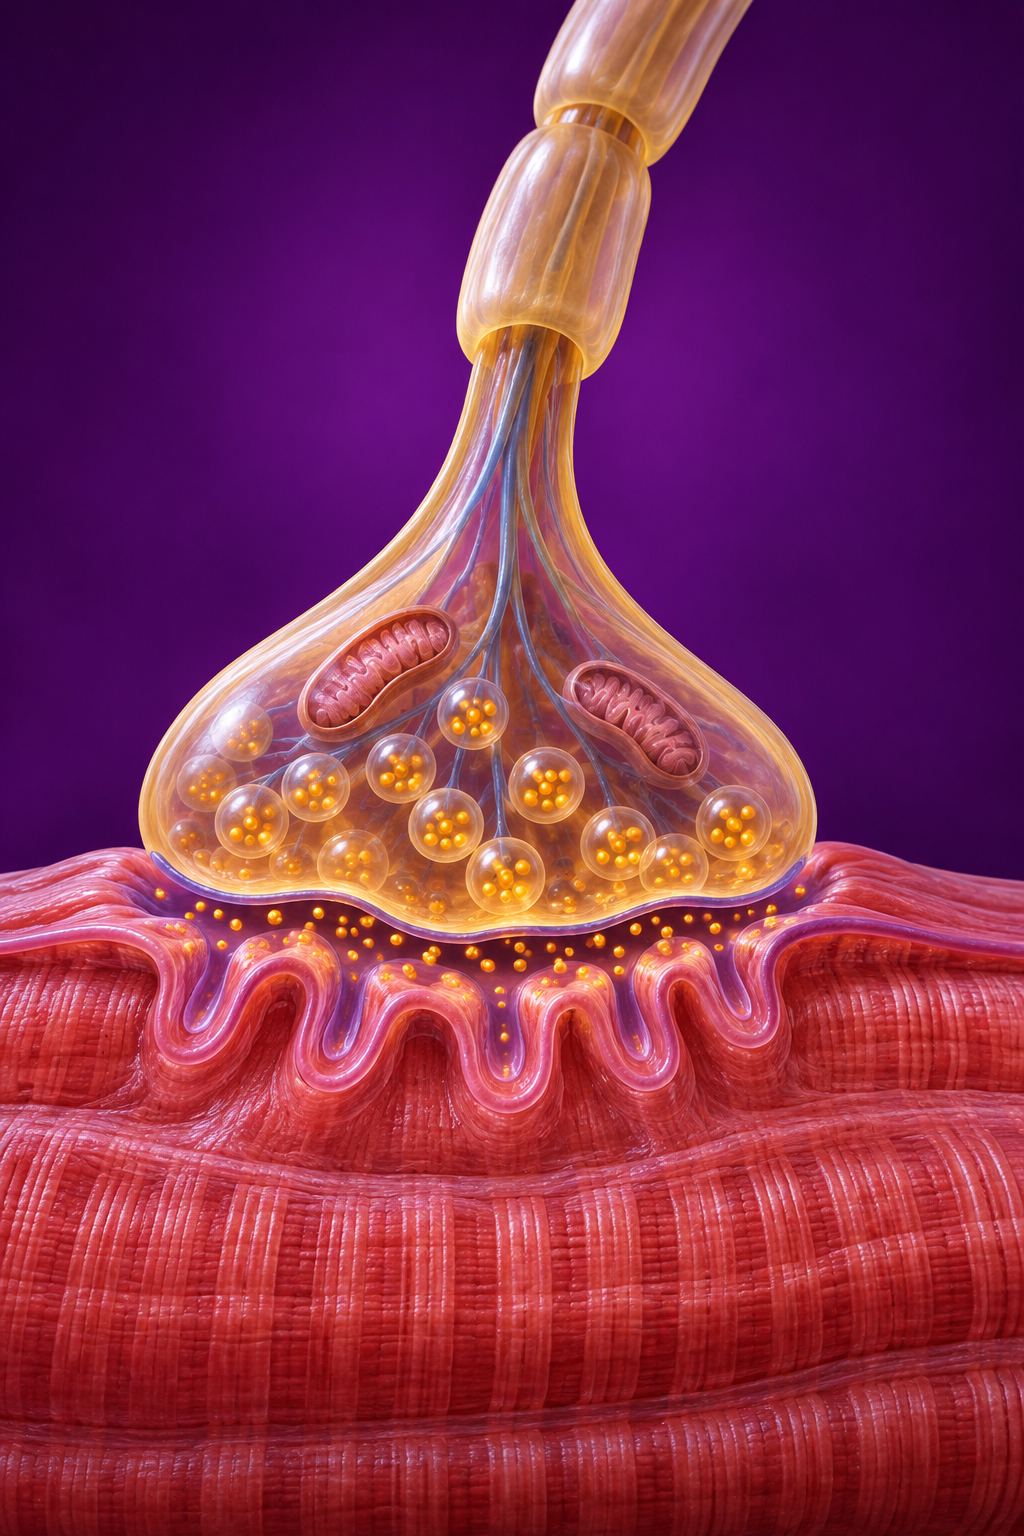
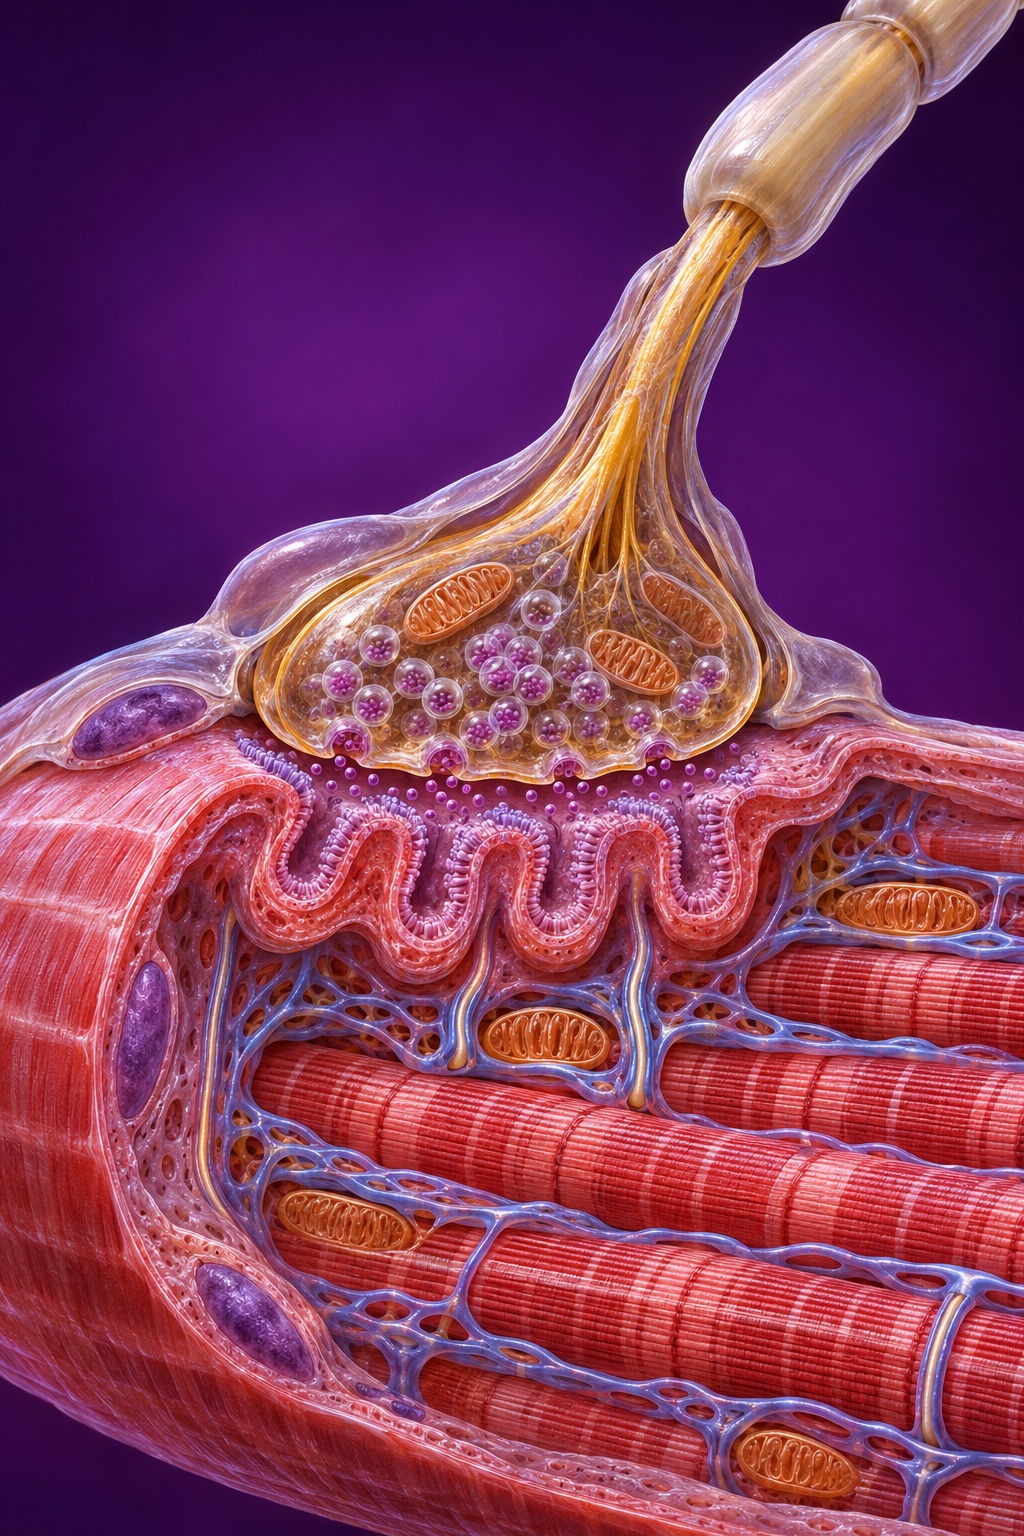
fix(atlas): refresh tendon and muscle contraction illustrations

diff --git a/app/atlas-premium/muscular-data.ts b/app/atlas-premium/muscular-data.ts
@@ -906,20 +906,20 @@ export const muscularLabs:Record<string,Lab>={
           {
             "name": "Tendão calcâneo",
             "description": "Transmite força do tríceps sural ao calcâneo.",
-            "x": 50,
-            "y": 67
+            "x": 35,
+            "y": 69
           },
           {
-            "name": "Sóleo",
-            "description": "Integra o tríceps sural, contribuindo para a flexão plantar sem cruzar o joelho.",
-            "x": 39,
-            "y": 45
+            "name": "Gastrocnêmio",
+            "description": "Músculo superficial da panturrilha, integrante do tríceps sural, que auxilia a flexão plantar e a flexão do joelho. O sóleo situa-se mais profundamente.",
+            "x": 45,
+            "y": 30
           },
           {
             "name": "Calcâneo",
             "description": "Osso do retropé que recebe a inserção do tendão calcâneo.",
-            "x": 50,
-            "y": 91
+            "x": 35,
+            "y": 93
           }
         ]
       },
@@ -933,19 +933,19 @@ export const muscularLabs:Record<string,Lab>={
             "name": "Tendão do quadríceps",
             "description": "Conecta o quadríceps à patela, transmitindo sua força.",
             "x": 49,
-            "y": 33
+            "y": 29
           },
           {
             "name": "Ligamento patelar",
             "description": "Une patela à tuberosidade da tíbia e transmite força do mecanismo extensor.",
-            "x": 49,
-            "y": 73
+            "x": 50,
+            "y": 64
           },
           {
             "name": "Retináculos patelares",
             "description": "Expansões fibrosas que contribuem para estabilidade e acompanhamento patelar.",
-            "x": 31,
-            "y": 48
+            "x": 32,
+            "y": 43
           }
         ]
       },
@@ -958,20 +958,20 @@ export const muscularLabs:Record<string,Lab>={
           {
             "name": "Trato iliotibial",
             "description": "Espessamento lateral da fáscia lata, recebe fibras do tensor da fáscia lata e glúteo máximo.",
-            "x": 49,
-            "y": 53
+            "x": 53,
+            "y": 50
           },
           {
             "name": "Fáscia lata",
             "description": "Envolve a musculatura da coxa e contribui para a delimitação dos compartimentos.",
-            "x": 35,
-            "y": 27
+            "x": 37,
+            "y": 39
           },
           {
             "name": "Glúteo máximo",
             "description": "Músculo extensor do quadril cujas fibras superficiais contribuem para tensionar o trato iliotibial. Os septos intermusculares não estão individualizados nesta ilustração.",
-            "x": 26,
-            "y": 22
+            "x": 29,
+            "y": 19
           }
         ]
       },
@@ -985,19 +985,19 @@ export const muscularLabs:Record<string,Lab>={
             "name": "Aponeurose plantar",
             "description": "Banda fibrosa que auxilia manutenção do arco longitudinal; tensiona-se na extensão dos dedos.",
             "x": 48,
-            "y": 62
+            "y": 61
           },
           {
             "name": "Tuberosidade do calcâneo",
             "description": "Região proximal de fixação da aponeurose plantar.",
             "x": 49,
-            "y": 91
+            "y": 92
           },
           {
             "name": "Bandas digitais",
             "description": "Prolongamentos distais da aponeurose que se relacionam com os dedos.",
-            "x": 48,
-            "y": 25
+            "x": 51,
+            "y": 27
           }
         ]
       }
@@ -1084,60 +1084,60 @@ export const muscularLabs:Record<string,Lab>={
           {
             "name": "Miofibrila",
             "description": "Estrutura intracelular constituída por sarcômeros em série.",
-            "x": 50,
-            "y": 44
+            "x": 49,
+            "y": 40
           },
           {
             "name": "Sarcolema",
             "description": "Membrana plasmática da fibra muscular, conduz a despolarização.",
-            "x": 32,
-            "y": 57
+            "x": 27,
+            "y": 55
           },
           {
             "name": "Retículo sarcoplasmático",
             "description": "Armazena cálcio e o libera em resposta à ativação elétrica.",
-            "x": 57,
-            "y": 61
+            "x": 51,
+            "y": 55
           }
         ]
       },
       {
         "file": "sarcomero.webp",
         "label": "Sarcômero em repouso",
-        "description": "Representação molecular esquemática do sarcômero em repouso: filamentos finos dourados, grossos vermelhos e discos Z violetas. Não está em escala.",
+        "description": "Representação molecular esquemática do sarcômero em repouso: filamentos finos vermelhos, filamentos grossos violetas e discos Z violetas. Não está em escala.",
         "ready": true,
         "points": [
           {
             "name": "Linha Z",
             "description": "Delimita o sarcômero e ancora filamentos finos.",
-            "x": 6,
-            "y": 49
+            "x": 5,
+            "y": 48
           },
           {
             "name": "Filamento fino",
             "description": "Composto principalmente por actina, tropomiosina e troponina.",
-            "x": 24,
-            "y": 38
+            "x": 23,
+            "y": 35
           },
           {
             "name": "Filamento grosso",
             "description": "Composto principalmente por miosina II, que forma pontes cruzadas.",
-            "x": 48,
-            "y": 46
+            "x": 50,
+            "y": 49
           }
         ]
       },
       {
         "file": "encurtamento.webp",
         "label": "Sarcômero contraído",
-        "description": "Representação esquemática do sarcômero encurtado: filamentos finos vermelhos e grossos violetas. As cores são ilustrativas e diferem da cena de repouso; não compare comprimentos pela escala das imagens.",
+        "description": "Representação esquemática da interação dos filamentos durante a contração: filamentos finos dourados, grossos avermelhados e discos Z violetas. As cores e escalas diferem da cena em repouso; as imagens não permitem comparar diretamente os comprimentos ou medir o encurtamento.",
         "ready": true,
         "points": [
           {
             "name": "Disco Z",
             "description": "Limite do sarcômero. Durante o encurtamento, os discos Z se aproximam devido ao deslizamento dos filamentos.",
-            "x": 10,
-            "y": 50
+            "x": 8,
+            "y": 49
           },
           {
             "name": "Filamentos finos",
@@ -1149,7 +1149,7 @@ export const muscularLabs:Record<string,Lab>={
             "name": "Filamentos grossos",
             "description": "Filamentos de miosina formam pontes cruzadas com a actina; a banda A corresponde ao comprimento dos filamentos grossos e permanece aproximadamente constante.",
             "x": 50,
-            "y": 49
+            "y": 50
           }
         ]
       },
@@ -1163,19 +1163,19 @@ export const muscularLabs:Record<string,Lab>={
             "name": "Placa motora",
             "description": "Região pós-sináptica especializada com receptores nicotínicos de acetilcolina.",
             "x": 49,
-            "y": 69
+            "y": 59
           },
           {
             "name": "Terminal axonal",
             "description": "Libera acetilcolina na fenda sináptica após entrada de cálcio.",
-            "x": 43,
-            "y": 49
+            "x": 51,
+            "y": 44
           },
           {
             "name": "Fenda sináptica",
             "description": "Espaço entre neurônio e fibra muscular, onde a acetilcolinesterase degrada acetilcolina.",
-            "x": 49,
-            "y": 62
+            "x": 48,
+            "y": 52
           }
         ]
       }

diff --git a/public/atlas-premium/muscular/contracao/README.md b/public/atlas-premium/muscular/contracao/README.md
@@ -1,9 +1,9 @@
 # Contração muscular
 
-4 imagens integradas, 12 marcadores aproximados e 6 questões comentadas. Revisão anatômica especializada e validação visual pendentes.
-As cenas moleculares são esquemáticas, não estão em escala e usam cores diferentes entre repouso e contração.
+Quatro novas imagens integradas, 12 marcadores aproximados recalibrados, seis questões preservadas. Versões anteriores em versao-anterior/. Revisão anatômica especializada e validação visual pendentes.
+As representações do sarcômero usam cores e escalas diferentes, não permitindo comparação direta de comprimentos.
 
-- fibra.webp
-- sarcomero.webp
-- encurtamento.webp
-- juncao.webp
+- fibra.webp — Fibra muscular
+- sarcomero.webp — Sarcômero em repouso
+- encurtamento.webp — Sarcômero contraído
+- juncao.webp — Junção neuromuscular

diff --git a/public/atlas-premium/muscular/tendoes-fascias/README.md b/public/atlas-premium/muscular/tendoes-fascias/README.md
@@ -1,8 +1,8 @@
 # Tendões e fáscias
 
-4 imagens integradas, 12 marcadores aproximados e 6 questões comentadas. Revisão anatômica especializada e validação visual pendentes.
+Quatro novas imagens integradas, 12 marcadores aproximados recalibrados, seis questões preservadas. Versões anteriores em versao-anterior/. Revisão anatômica especializada e validação visual pendentes.
 
-- calcaneo.webp
-- joelho.webp
-- fascia-lata.webp
-- plantar.webp
+- calcaneo.webp — Tendão calcâneo
+- joelho.webp — Mecanismo extensor
+- fascia-lata.webp — Fáscia lata
+- plantar.webp — Fáscia plantar
